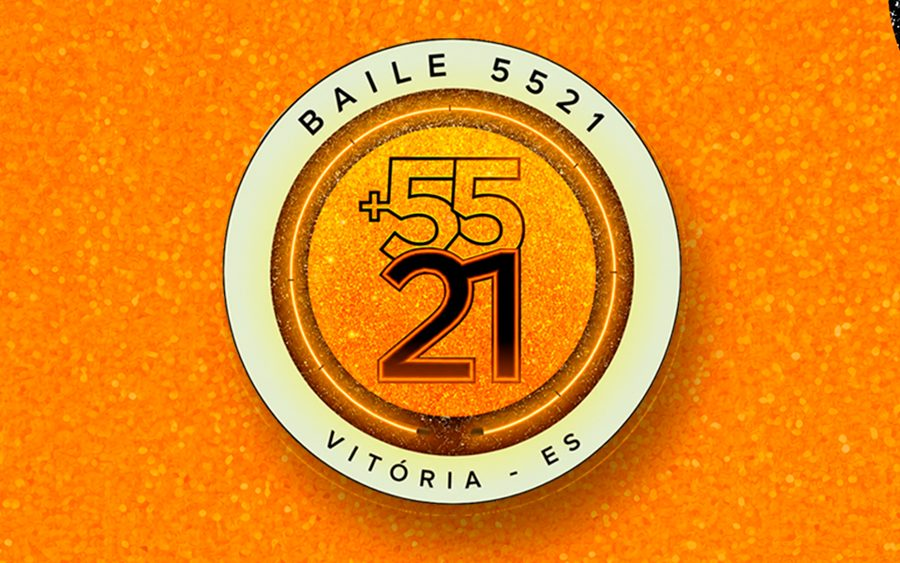
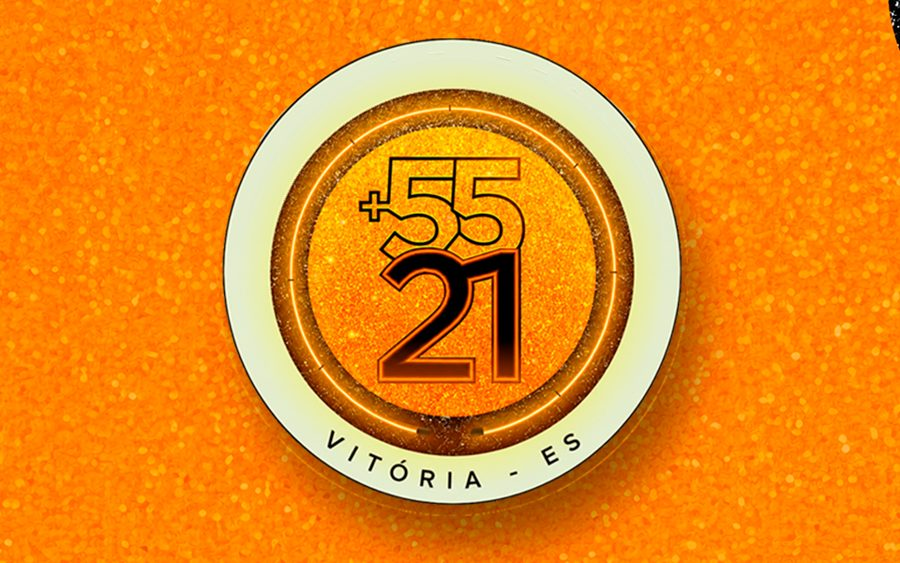
Cases: +5521 sem a palavra Baile
Claude-Session: https://claude.ai/code/session_01ShgEqnCmaBYMbGvLhFTDDp

Changed region(s): [[0.4978, 0.0906, 0.6844, 0.2416], [0.3111, 0.0906, 0.4978, 0.2416]]

diff --git a/index.html b/index.html
@@ -14,9 +14,9 @@
 <link rel="preconnect" href="https://fonts.googleapis.com">
 <link rel="preconnect" href="https://fonts.gstatic.com" crossorigin>
 <link rel="stylesheet" href="https://fonts.googleapis.com/css2?family=Archivo:wdth,wght@62..125,400..900&family=Instrument+Sans:wght@400..700&family=JetBrains+Mono:wght@500&display=swap">
-<link rel="stylesheet" href="css/base.css?v=202610301615">
-<link rel="stylesheet" href="css/home.css?v=202610301615">
-<link rel="stylesheet" href="css/cadastro.css?v=202610301615">
+<link rel="stylesheet" href="css/base.css?v=202610301617">
+<link rel="stylesheet" href="css/home.css?v=202610301617">
+<link rel="stylesheet" href="css/cadastro.css?v=202610301617">
 </head>
 <body>
 
@@ -110,10 +110,10 @@
         </article>
         <article class="case">
           <div class="case-foto case-imagem">
-            <img src="assets/img/cases/baile-5521.jpg" alt="Logo do Baile +5521, Vitória/ES" loading="lazy" width="900" height="563">
+            <img src="assets/img/cases/baile-5521.jpg?v=202610301617" alt="Logo do +5521, Vitória/ES" loading="lazy" width="900" height="563">
           </div>
           <div class="case-corpo">
-            <h3>Baile +5521</h3>
+            <h3>+5521</h3>
             <dl class="case-numeros">
               <div><dt>Público</dt><dd>1.800</dd></div>
               <div><dt>Edição em Vix</dt><dd>5ª</dd></div>
@@ -266,8 +266,8 @@
   </div>
 </dialog>
 
-<script src="js/cadastro.js?v=202610301615"></script>
-<script src="js/calendario.js?v=202610301615"></script>
-<script src="js/links.js?v=202610301615"></script>
+<script src="js/cadastro.js?v=202610301617"></script>
+<script src="js/calendario.js?v=202610301617"></script>
+<script src="js/links.js?v=202610301617"></script>
 </body>
 </html>
